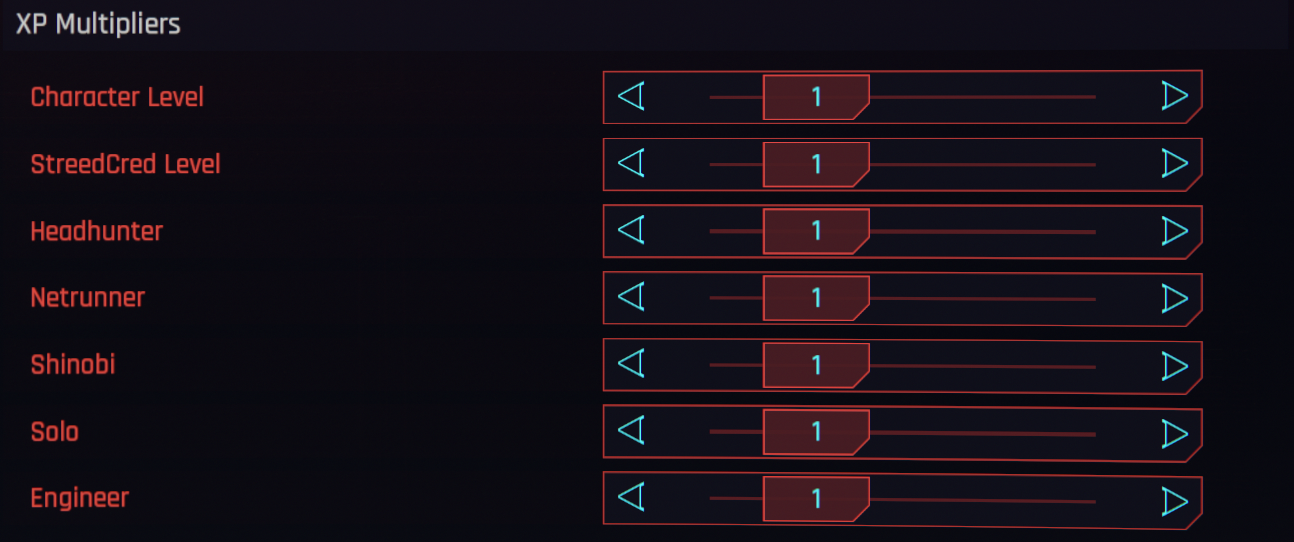
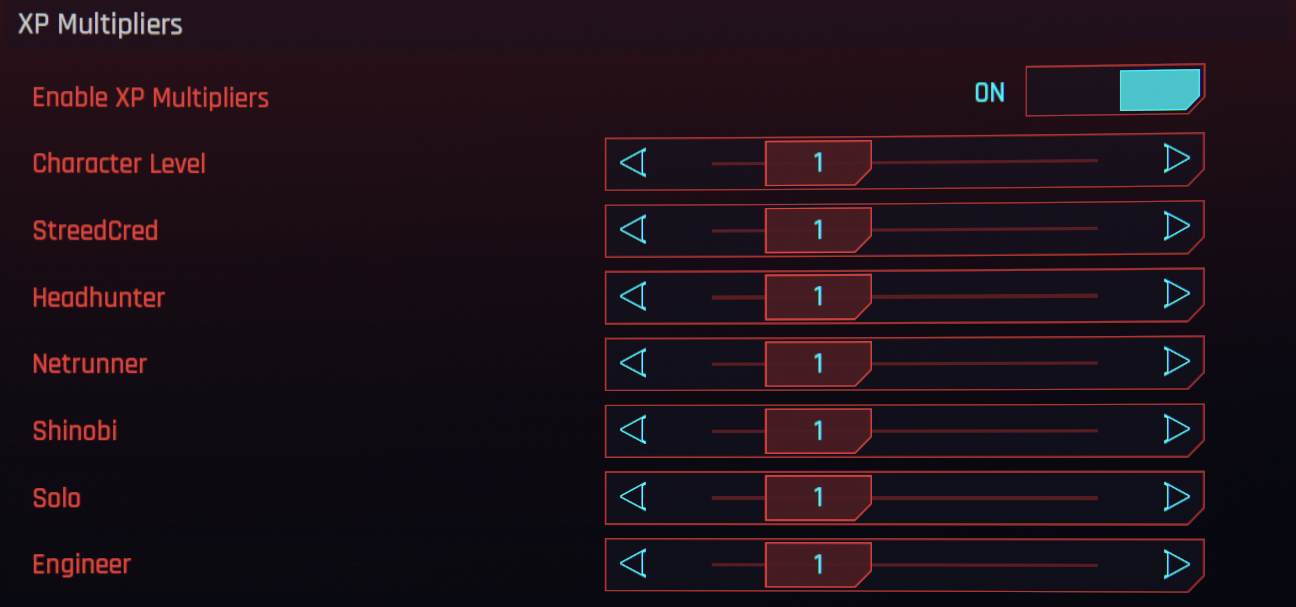
update docs for release 1.3.0

diff --git a/src/mods/MoreLevels/docs/CHANGELOG.md b/src/mods/MoreLevels/docs/CHANGELOG.md
@@ -2,6 +2,8 @@
 
 ## [Unreleased][unreleased]
 
+## [Version 1.3.0][1.3.0]
+
 ### Added
 
 - Add clear error messages for missing dependencies.
@@ -50,7 +52,8 @@
 - Add XP multiplier sliders.
 - Add cyberware cap scaling past 500 with increased levels.
 
-[unreleased]: https://github.com/Dunc4nNT/cyberpunk-2077-modding/compare/morelevels-1.1.0...HEAD
+[unreleased]: https://github.com/Dunc4nNT/cyberpunk-2077-modding/compare/morelevels-1.3.0...HEAD
+[1.3.0]: https://github.com/Dunc4nNT/cyberpunk-2077-modding/compare/morelevels-1.2.0...morelevels-1.3.0
 [1.2.0]: https://github.com/Dunc4nNT/cyberpunk-2077-modding/compare/morelevels-1.1.0...morelevels-1.2.0
 [1.1.0]: https://github.com/Dunc4nNT/cyberpunk-2077-modding/compare/morelevels-1.0.0...morelevels-1.1.0
 [1.0.0]: https://github.com/Dunc4nNT/cyberpunk-2077-modding/releases/tag/morelevels-1.0.0

diff --git a/src/mods/MoreLevels/README.md b/src/mods/MoreLevels/README.md
@@ -35,9 +35,11 @@ The game's XP curve stops at level 60, by default this mod extends the curve up 
 
 There are also various XP multiplier sliders, for character level, streetcred, and all the various skill types.
 
-![Settings page (1/2)](./docs/images/settings_0.png)
+![Settings page (1/3)](./docs/images/settings_0.png)
 
-![Settings page (2/2)](./docs/images/settings_1.png)
+![Settings page (2/3)](./docs/images/settings_1.png)
+
+![Settings page (3/3)](./docs/images/settings_2.png)
 
 ## How to Use
 
